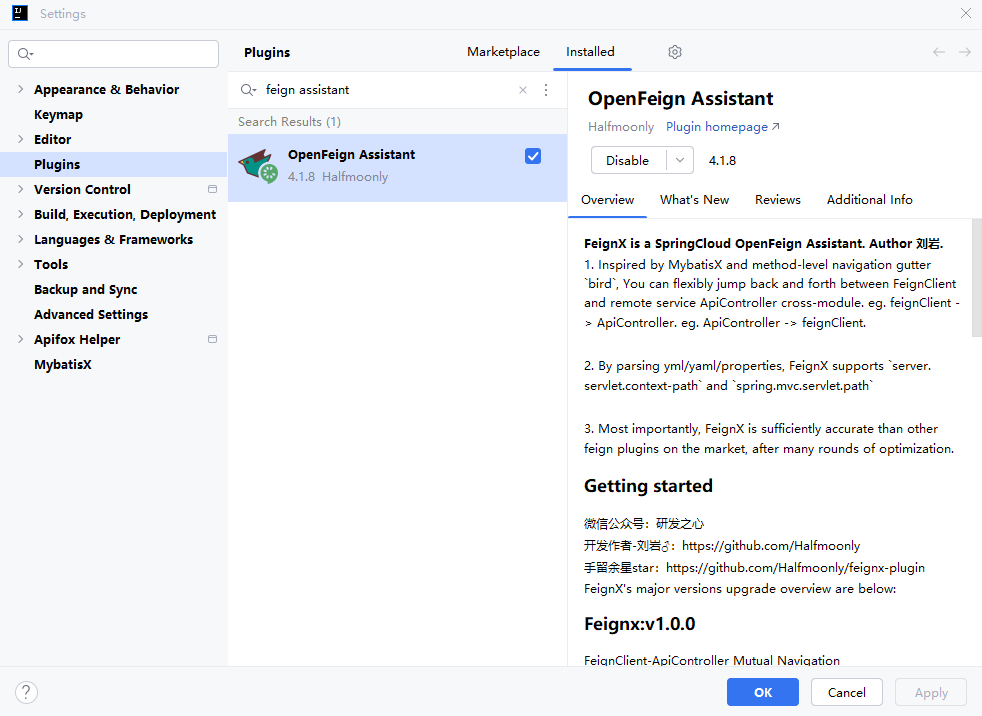
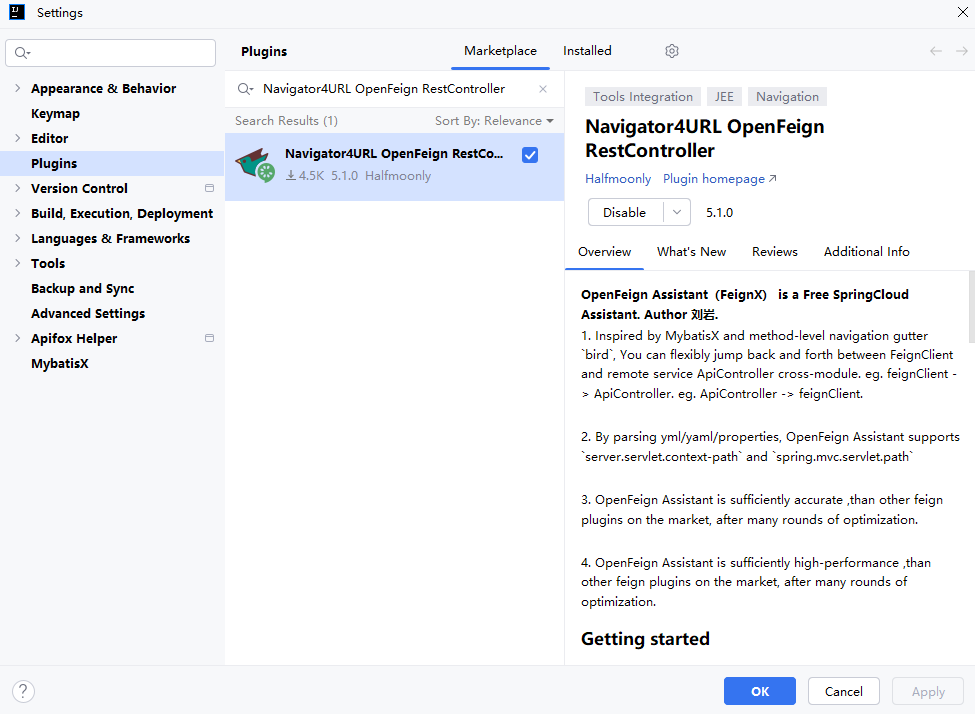
更新Readme.md发布日志

diff --git a/README.md b/README.md
@@ -177,11 +177,23 @@ reslove issue #6：https://github.com/Halfmoonly/feignx-plugin/issues/6
 2. 为了方便Vim党，我们支持了url完整路径复制至剪切板（Feign接口和Controller接口均支持）
 3. 欢迎Star：https://github.com/Halfmoonly/feignx-plugin
 
+CopyFeignUrlLineMarkerProvider：
+
+![CopyFeignUrlLineMarkerProvider.png](feignx/pics/CopyFeignUrlLineMarkerProvider.png)![img.png](feignx/pics/img.png)
+
+CopyControllerUrlLineMarkerProvider：
+
+![CopyControllerUrlLineMarkerProvider.png](feignx/pics/CopyControllerUrlLineMarkerProvider.png)
 
 朋友们记得先将zip解压出jar包，再离线安装jar包哟~~：https://github.com/user-attachments/files/19149196/Navigator4URL.OpenFeign.RestController-5.1.0.zip
-
 
 
 ---
 
 觉得好用，点个star⭐
+
+最新版本，请即时关注IntelliJ IDEA插件市场更新Navigator4URL OpenFeign RestController
+
+https://plugins.jetbrains.com/plugin/25604-navigator4url-openfeign-restcontroller
+
+IDEA内插件市场一键安装最方便哟~~
